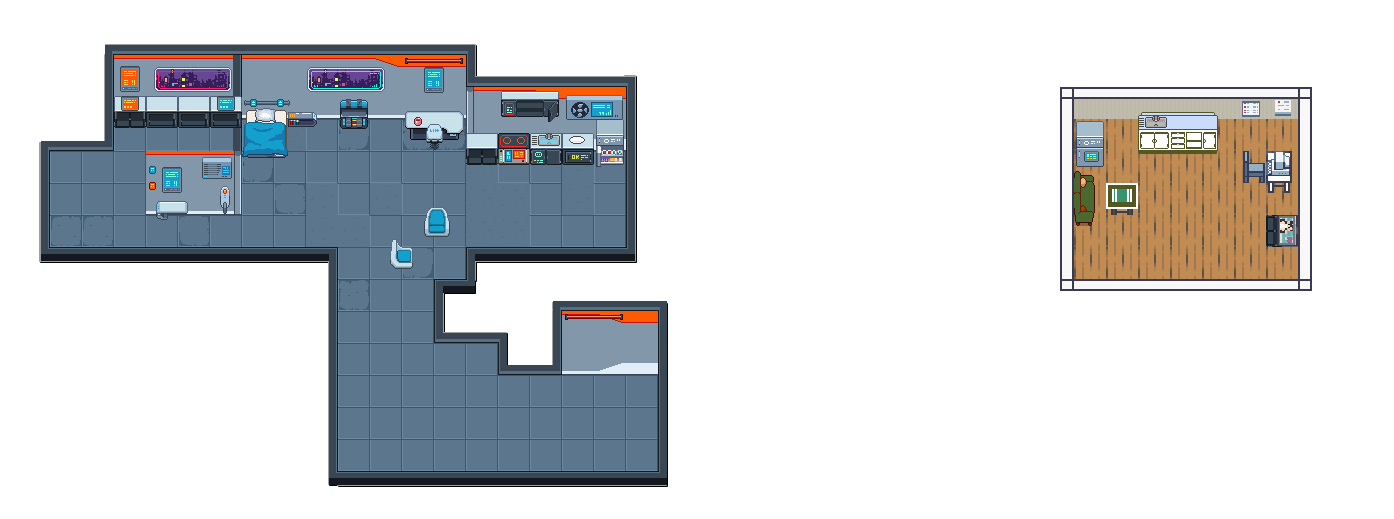
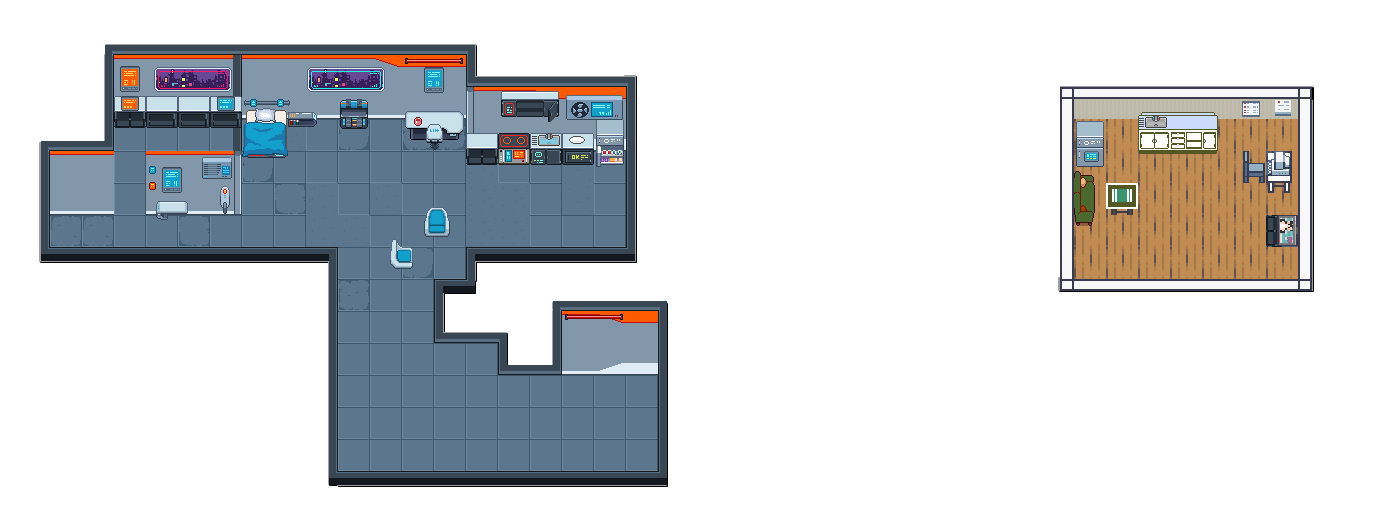
refactor: Optimize sprite rendering and simplify indicators
- Consolidated multiple small sprite chunks into a single global sprite for more efficient rendering and reduced sprite creation.
- Simplified indicators by removing unnecessary complexity, as the bounding box in Tiled and the portfolio are now the same.
- Removed the need for offsets due to the updated bounding box alignment.

Changed region(s): [[0.0308, 0.2775, 0.0925, 0.4316]]

diff --git a/src/parseMap.js b/src/parseMap.js
@@ -1,4 +1,4 @@
-import { OFFSET_X, OFFSET_Y, SCALE_FACTOR, DEF_SCALE_IND, INDICATOR_OFFSET, FURNITURES, BOOKS } from "./constants.js";
+import { OFFSET_X, OFFSET_Y, SCALE_FACTOR, DEF_SCALE_IND, INDICATOR_OFFSET } from "./constants.js";
 import { getIndicatorOffset, createIndicator, createInteractable } from "./elementFactory.js";
 import { collision } from "./collision.js";
 
@@ -53,11 +53,7 @@ function generateInteractiveElements(k, boundary, gameElements) {
             ftPrintfIndicators.push(createIndicator(boundary.x + dx, boundary.y + dy, direction, k));
         });
 
-        const interactable = createInteractable(k, "tiles", boundary, 13, 0, 0);
-        const interactable2 = createInteractable(k, "tiles", boundary, 14, 32, 0);
-
-        gameElements.interactiveElements.push(interactable);
-        gameElements.interactiveElements.push(interactable2);
+        gameElements.interactiveElements.push(createInteractable(k, "homeSweetHome", boundary, 0, 0, 0));
         addProject(boundary, gameElements.projects);
         gameElements.indicators[boundary.name] = ftPrintfIndicators;
     }
@@ -75,45 +71,24 @@ function generateInteractiveElements(k, boundary, gameElements) {
     }
     if (boundary.name == "pipex") {
         const pipexIndicators = [];
-        const modified_DEF_SCALE_IND = DEF_SCALE_IND.map((indicator) => {
-            if (indicator.name === "topLeft" || indicator.name === "topRight") {
-                return {
-                    ...indicator,
-                    y: indicator.y * 2,
-                };
-            }
-            return indicator;
-        });
-        const pipexIndicatorOffsets = getIndicatorOffset(boundary, modified_DEF_SCALE_IND, INDICATOR_OFFSET);
+        const pipexIndicatorOffsets = getIndicatorOffset(boundary, DEF_SCALE_IND, INDICATOR_OFFSET);
 
         pipexIndicatorOffsets.forEach(({ dx, dy, direction }) => {
             pipexIndicators.push(createIndicator(boundary.x + dx, boundary.y + dy, direction, k));
         });
 
-        gameElements.interactiveElements.push(createInteractable(k, "pipe", boundary, 0, 0, -8));
+        gameElements.interactiveElements.push(createInteractable(k, "pipe", boundary, 0, -4, 2));
         addProject(boundary, gameElements.projects);
         gameElements.indicators[boundary.name] = pipexIndicators;
     }
     if (boundary.name == "libft") {
         const libftIndicators = [];
-        const modified_DEF_SCALE_IND = DEF_SCALE_IND.map((indicator) => {
-            if (indicator.name === "bottomLeft" || indicator.name === "bottomRight") {
-                return {
-                    ...indicator,
-                    y: indicator.y * -0.5,
-                };
-            }
-            return indicator;
-        });
-        const libftIndicatorOffsets = getIndicatorOffset(boundary, modified_DEF_SCALE_IND, INDICATOR_OFFSET);
+        const libftIndicatorOffsets = getIndicatorOffset(boundary, DEF_SCALE_IND, INDICATOR_OFFSET);
 
         libftIndicatorOffsets.forEach(({ dx, dy, direction }) => {
             libftIndicators.push(createIndicator(boundary.x + dx, boundary.y + dy, direction, k));
         });
-
-        FURNITURES.forEach(({ frame, x, y }) => {
-            gameElements.interactiveElements.push(createInteractable(k, "furniture", boundary, frame, x, y));
-        });
+        gameElements.interactiveElements.push(createInteractable(k, "library", boundary, 0, 0, 0));
         addProject(boundary, gameElements.projects);
         gameElements.indicators[boundary.name] = libftIndicators;
     }
@@ -125,9 +100,7 @@ function generateInteractiveElements(k, boundary, gameElements) {
             pushSwapIndicators.push(createIndicator(boundary.x + dx, boundary.y + dy, direction, k));
         });
 
-        BOOKS.forEach(({ type, x, y }) => {
-            gameElements.interactiveElements.push(createInteractable(k, type, boundary, 0, x, y));
-        });
+        gameElements.interactiveElements.push(createInteractable(k, "books", boundary, 0, 0, 0));
         addProject(boundary, gameElements.projects);
         gameElements.indicators[boundary.name] = pushSwapIndicators;
     }
@@ -137,12 +110,12 @@ function generateInteractiveElements(k, boundary, gameElements) {
         PhilosophersIndicatorOffsets.forEach(({ dx, dy, direction }) => {
             PhilosophersIndicators.push(createIndicator(boundary.x + dx, boundary.y + dy, direction, k));
         });
-        gameElements.interactiveElements.push(createInteractable(k, "tiles", boundary, 159, -10, -13));
-        gameElements.interactiveElements.push(createInteractable(k, "tiles", boundary, 160, 22, -13));
-        gameElements.interactiveElements.push(createInteractable(k, "tiles", boundary, 180, -10, 19));
-        gameElements.interactiveElements.push(createInteractable(k, "tiles", boundary, 181, 22, 19));
+        gameElements.interactiveElements.push(createInteractable(k, "table", boundary, 0, -1, 0));
+
+        // Food on table.
         createInteractable(k, "tiles", boundary, 163, -4, 0);
         createInteractable(k, "tiles", boundary, 166, 4, -12);
+
         addProject(boundary, gameElements.projects);
         gameElements.indicators[boundary.name] = PhilosophersIndicators;
     }
@@ -152,9 +125,7 @@ function generateInteractiveElements(k, boundary, gameElements) {
         minishellIndicatorOffsets.forEach(({ dx, dy, direction }) => {
             minishellIndicators.push(createIndicator(boundary.x + dx, boundary.y + dy, direction, k));
         });
-        gameElements.interactiveElements.push(createInteractable(k, "tiles", boundary, 48, -18, 1));
-        gameElements.interactiveElements.push(createInteractable(k, "tiles", boundary, 49, 14, 1));
-        gameElements.interactiveElements.push(createInteractable(k, "tiles", boundary, 50, 46, 1));
+        gameElements.interactiveElements.push(createInteractable(k, "computers", boundary, 0, -1, 0));
         addProject(boundary, gameElements.projects);
         gameElements.indicators[boundary.name] = minishellIndicators;
     }

diff --git a/src/initializeAssets.js b/src/initializeAssets.js
@@ -93,14 +93,13 @@ export function loadAllResources(k) {
                 path: "/tiles/spritesheet.png",
                 config: { sliceX: 21, sliceY: 11 },
             },
-            { name: "pipe", path: "/pipe/1.png" },
             {
                 name: "furniture",
                 path: "/furniture/hous_furniture.png",
                 config: { sliceX: 13, sliceY: 18 },
             },
-            { name: "book", path: "/books/1.png" },
-            { name: "book2", path: "/books/2.png" },
+            { name: "books", path: "/books/books.png" },
+            { name: "pipe", path: "/pipe/1.png" },
             { name: "early-morning-1", path: "/background/early-morning/1.png" },
             { name: "early-morning-2", path: "/background/early-morning/2.png" },
             { name: "early-morning-3", path: "/background/early-morning/3.png" },
@@ -133,6 +132,10 @@ export function loadAllResources(k) {
             { name: "menu-background", path: "background/Cyberpunk_city_street.gif" },
             { name: "phonewawe", path: "/steins-gate/phonewawe.png" },
             { name: "sg-001", path: "/steins-gate/sg-001.png" },
+            { name: "library", path: "/furniture/library.png" },
+            { name: "homeSweetHome", path: "/tiles/homeSweetHome.png" },
+            { name: "table", path: "/tiles/table.png" },
+            { name: "computers", path: "/tiles/computers.png" },
         ],
     };
 

diff --git a/src/main.js b/src/main.js
@@ -1,5 +1,5 @@
 import { k } from "./KaboomCtx.js";
-import { SCALE_FACTOR, HOVER_EVENTS } from "./constants.js";
+import { SCALE_FACTOR, HOVER_EVENTS, DOOR_OFFSET } from "./constants.js";
 import { changeBackgroundHour, createAllBackground, createSteinsGateBackground } from "./background.js";
 import { handleKeyPressed, movePlayer, handleUIEvent } from "./keys.js";
 import { handleMouseEvents } from "./mouse.js";
@@ -51,17 +51,10 @@ k.scene("main", async () => {
 
     parseLayers(k, player, map, layers, gameElements);
 
-    // Left part of doors.
-    createTile(k, "tiles", 2, 114 - 32 * 1, 151);
-    createTile(k, "tiles", 2, 114 - 32 * 2, 151);
-
-    createTile(k, "tiles", 23, 114 - 32 * 1, 183);
-    createTile(k, "tiles", 23, 114 - 32 * 2, 183);
-
-    // DOOR.
+    // DOOR with kaboon. allows me to manage z index as I want.
     for (let i = 0; i < 3; i++) {
-        createTile(k, "tiles", 153 + i, 48 + 6 + 32 * i, 150, 3);
-        createTile(k, "tiles", 174 + i, 48 + +6 + 32 * i, 182, 0);
+        createTile(k, "tiles", 153 + i, 48 + 6 + DOOR_OFFSET * i, 150, 3);
+        createTile(k, "tiles", 174 + i, 48 + 6 + DOOR_OFFSET * i, 182, 0);
     }
 
     loadLocalStorage(gameElements.projects);

diff --git a/src/constants.js b/src/constants.js
@@ -4,6 +4,7 @@ export const OFFSET_Y = 20;
 export const PLAYER_SPEED = 300;
 export const BACKGROUND_COUNT = 5;
 export const INDICATOR_OFFSET = 8;
+export const DOOR_OFFSET = 32;
 
 export const DEF_SCALE_IND = [
     { name: "topLeft", x: 1, y: 1 },
@@ -11,21 +12,7 @@ export const DEF_SCALE_IND = [
     { name: "bottomLeft", x: 1, y: 1 },
     { name: "bottomRight", x: 1, y: 1 },
 ];
-export const FURNITURES = [
-    { frame: 54, x: 0, y: 8 },
-    { frame: 55, x: 16, y: 8 },
-    { frame: 56, x: 32, y: 8 },
-    { frame: 67, x: 0, y: 24 },
-    { frame: 68, x: 16, y: 24 },
-    { frame: 69, x: 32, y: 24 },
-    { frame: 80, x: 0, y: 40 },
-    { frame: 81, x: 16, y: 40 },
-    { frame: 82, x: 32, y: 40 },
-];
-export const BOOKS = [
-    { type: "book", x: 0, y: 0 },
-    { type: "book2", x: 0, y: 24 },
-];
+
 export const HOVER_EVENTS = [
     {
         name: "libft",

diff --git a/public/map/Room_Builder_free_32x32.tsx b/public/map/Room_Builder_free_32x32.tsx
@@ -1,4 +1,4 @@
 <?xml version="1.0" encoding="UTF-8"?>
 <tileset version="1.10" tiledversion="1.10.2" name="Room_Builder_free_32x32" tilewidth="32" tileheight="32" tilecount="391" columns="17">
- <image source="../../../../Downloads/Interiors_free/32x32/Room_Builder_free_32x32.png" width="544" height="736"/>
+ <image source="Room_Builder_free_32x32.png" width="544" height="736"/>
 </tileset>

diff --git a/public/map/Sprite-0001.tsx b/public/map/Sprite-0001.tsx
@@ -1,4 +1,4 @@
 <?xml version="1.0" encoding="UTF-8"?>
 <tileset version="1.10" tiledversion="1.10.2" name="Sprite-0001" tilewidth="32" tileheight="32" tilecount="64" columns="8">
- <image source="../Sprite-0001.png" width="256" height="256"/>
+ <image source="../steins-gate/spritesheet.png" width="256" height="256"/>
 </tileset>

diff --git a/readme.md b/readme.md
@@ -1,26 +1,28 @@
-# FEATURES
-- [ ] Add cub3d.
+# Project Roadmap
+
+## Features
+- [ ] Add `cub3d`.
 - [ ] Add an interactive resume.
-- [ ] Add an earthquake when microwave is activated.
-
-# BUGS
-
-# REFACTOR
-- [ ] Refactor the entire codebase for better readability, maintainability, and performance.
-- [ ] Change Kaboom.js to Kaplay (a maintained fork of Kaboom.js, which is deprecated)
-
-# OPTIMIZATION
-- [ ] Remove event listeners when they are no longer needed to prevent memory leaks and improve performance. (you can use  { once: true })
-
-# MAINTAINABILITY
-- [ ] Reorganize assets in the public folders for better structure, accessibility, and maintainability.
-- [ ] Add error handling.
-
-# IMPROVEMENT
-- [ ] Use original Font instead of image for divergence meter.
+- [ ] Add an earthquake effect when the microwave is activated.
+- [ ] Customize the achievement banner.
 - [ ] Store the divergence meter value in local storage to persist the state across sessions.
+
+## Bugs
+
+## Refactor
+- [ ] Refactor the entire codebase for better readability, maintainability, and performance.
+
+## Optimization
+- [ ] Remove event listeners when they are no longer needed to prevent memory leaks and improve performance (use `{ once: true }`).
+
+## Maintainability
+- [ ] Reorganize assets in the public folders for better structure, accessibility, and maintainability.
+- [ ] Add comprehensive error handling.
+- [ ] Change from Kaboom.js to Kaplay (a maintained fork of Kaboom.js, which is deprecated).
+
+## Improvements
+- [ ] Use an original font instead of an image for the divergence meter.
 - [ ] Normalize the movement vector for consistent speed in all directions, including diagonals.
-- [ ] Customize Achievement banner.
-- [ ] Improve Mobile compatibility.
-- [ ] Images should not be draggable, there is no use.
-- [ ] Maybe I can transform bounding box into collision box for more collision detection precision.
+- [ ] Improve mobile compatibility.
+- [ ] Ensure images are not draggable, as there is no use for this feature.
+- [ ] Consider transforming bounding boxes into collision boxes for more precise collision detection.
